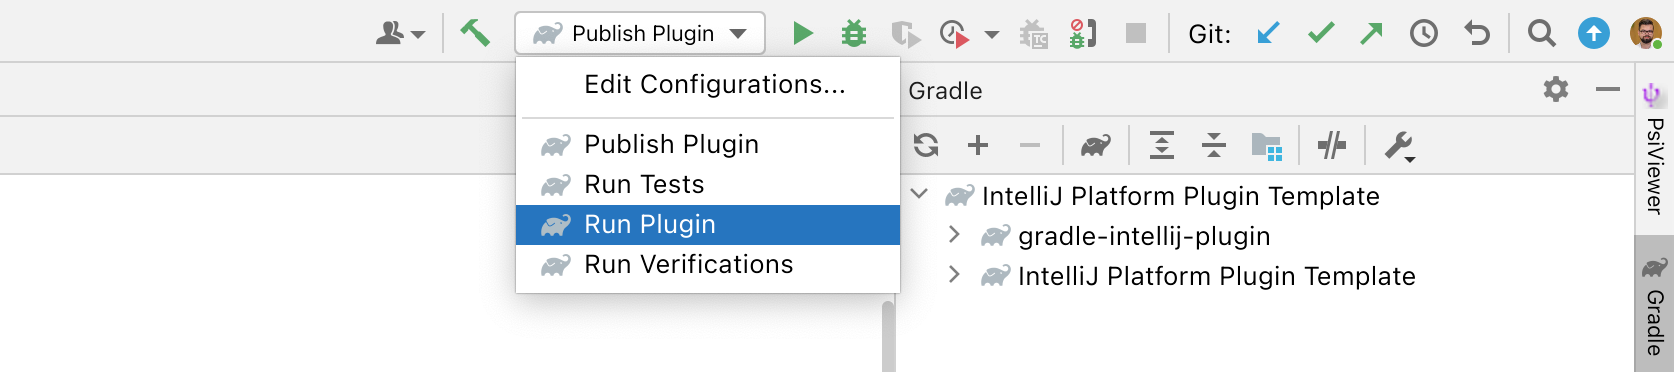
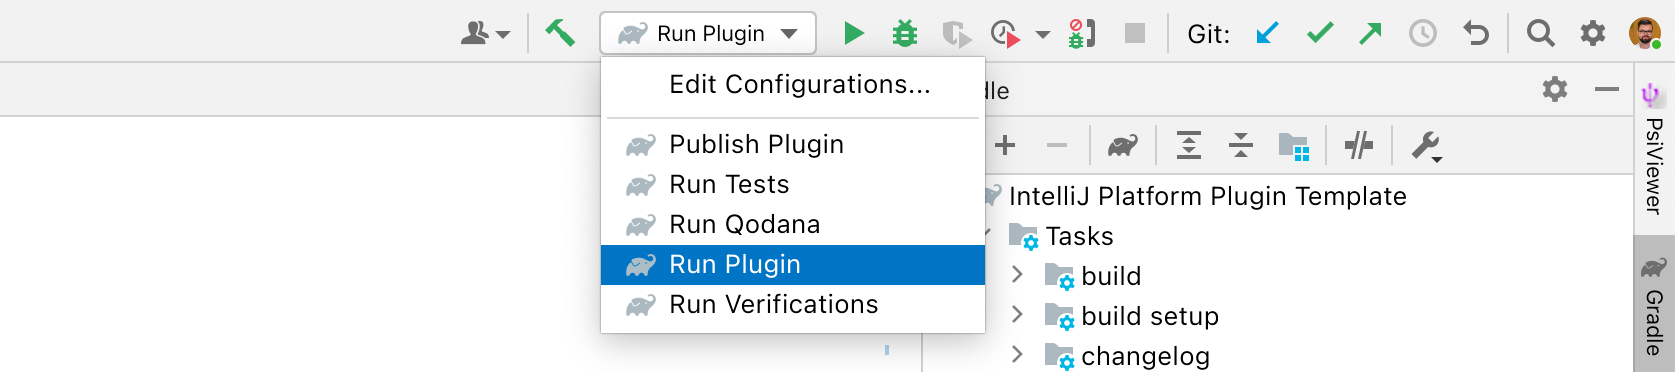
Qodana integration

diff --git a/src/main/kotlin/org/jetbrains/plugins/template/MyBundle.kt b/src/main/kotlin/org/jetbrains/plugins/template/MyBundle.kt
@@ -1,6 +1,5 @@
 package org.jetbrains.plugins.template
 
-import com.intellij.AbstractBundle
 import com.intellij.DynamicBundle
 import org.jetbrains.annotations.NonNls
 import org.jetbrains.annotations.PropertyKey
@@ -15,7 +14,7 @@ object MyBundle : DynamicBundle(BUNDLE) {
     fun message(@PropertyKey(resourceBundle = BUNDLE) key: String, vararg params: Any) =
         getMessage(key, *params)
 
-    @Suppress("SpreadOperator")
+    @Suppress("SpreadOperator", "unused")
     @JvmStatic
     fun messagePointer(@PropertyKey(resourceBundle = BUNDLE) key: String, vararg params: Any) =
         getLazyMessage(key, *params)

diff --git a/README.md b/README.md
@@ -34,6 +34,7 @@ In this README, we will highlight the following elements of template-project cre
   - listeners – project and dynamic plugin lifecycle
   - services – project-related and application-related services
   - actions – basic action with shortcut binding
+- [Qodana integration](#qodana-integration)
 - [Predefined Run/Debug configurations](#predefined-rundebug-configurations)
 - [Continuous integration](#continuous-integration) based on GitHub Actions
   - [Dependencies management](#dependencies-management) with Dependabot
@@ -159,6 +160,7 @@ A generated IntelliJ Platform Plugin Template repository contains the following 
 ├── gradlew                 *nix Gradle Wrapper binary
 ├── gradlew.bat             Windows Gradle Wrapper binary
 ├── LICENSE                 License, MIT by default
+├── qodana.yml              Qodana configuration file
 ├── README.md               README
 └── settings.gradle.kts     Grade project settings
 ```
@@ -218,19 +220,41 @@ To start with the actual implementation, you may check our [IntelliJ Platform SD
 For those, who value example codes the most, there are also available [IntelliJ SDK Code Samples][gh:code-samples] and [IntelliJ Platform Explorer][jb:ipe] – a search tool for browsing Extension Points inside existing implementations of open-source IntelliJ Platform plugins.
 
 
+## Qodana integration
+
+To increase the project value, the IntelliJ Platform Plugin Template got integrated with [Qodana][docs:qodana], a code quality monitoring platform that allows you to check the condition of your implementation and find any possible problems that may require enhancing.
+
+Qodana brings into your CI/CD pipelines all the smart features you love in the JetBrains IDEs and generates an HTML report with the actual inspection status.
+
+Qodana inspections are accessible within the project on two levels:
+
+- using the [Qodana IntelliJ GitHub Action][docs:qodana-github-action], run automatically within the [Build](.github/workflows/build.yml) workflow,
+- with the [Gradle Qodana Plugin][gh:gradle-qodana-plugin], so you can use it on the local environment or any CI other than GitHub Actions.
+
+Qodana inspection is configured with the `qodana { ... }` section in the Gradle build file, and [`qodana.yml`][file:qodana.yml] YAML configuration file.
+
+> **NOTE:** Qodana requires Docker to be installed and available in your environment.
+
+To run inspections, you can use a predefined *Run Qodana* configuration, which will provide a full report on `http://localhost:8080`, or invoke the Gradle task directly with the `./gradlew runInspections` command.
+
+A final report is available in the `./build/reports/inspections/` directory.
+
+![Qodana][file:qodana.png]
+
+
 ## Predefined Run/Debug configurations
 
 Within the default project structure, there is a `.run` directory provided containing three predefined *Run/Debug configurations* that expose corresponding Gradle tasks:
 
 ![Run/Debug configurations][file:run-debug-configurations.png]
 
-| Configuration name | Description                                                                                                                                                            |
-| ------------------ | ---------------------------------------------------------------------------------------------------------------------------------------------------------------------- |
-| Run Plugin         | Runs [`:runIde`][gh:gradle-intellij-plugin-running-dsl] Gradle IntelliJ Plugin task. Use the *Debug* icon for plugin debugging.                                        |
-| Run Tests          | Runs [`:test`][gradle-lifecycle-tasks] Gradle task.                                                                                                                    |
-| Run Verifications  | Runs [`:runPluginVerifier`][gh:gradle-intellij-plugin-verifier-dsl] Gradle IntelliJ Plugin task to check the plugin compatibility against the specified IntelliJ IDEs. |
-| Publish Plugin     | Runs `signPlugin` and `publishPlugin` Gradle tasks. Check [Environment variables](#environment-variables) section for more details on how to configure it.             |
-
+| Configuration name | Description                                                                                                                                                                   |
+| ------------------ | ----------------------------------------------------------------------------------------------------------------------------------------------------------------------------- |
+| Run Plugin         | Runs [`:runIde`][gh:gradle-intellij-plugin-running-dsl] Gradle IntelliJ Plugin task. Use the *Debug* icon for plugin debugging.                                               |
+| Run Tests          | Runs [`:test`][gradle-lifecycle-tasks] Gradle task.                                                                                                                           |
+| Run Qodana         | Runs [`:runInspections`][gh:gradle-qodana-plugin] Gradle Qodana Plugin task. Starts Qodana inspections in a Docker container and serves generated report on `localhost:8080`. |
+| Run Verifications  | Runs [`:runPluginVerifier`][gh:gradle-intellij-plugin-verifier-dsl] Gradle IntelliJ Plugin task to check the plugin compatibility against the specified IntelliJ IDEs.        |
+| Publish Plugin     | Runs `signPlugin` and `publishPlugin` Gradle tasks. Check [Environment variables](#environment-variables) section for more details on how to configure it.                    |
 
 > **TIP:** You can find the logs from the running task in the `idea.log` tab.
 >
@@ -273,7 +297,7 @@ Keeping the project in good shape and having all the dependencies up-to-date req
 
 Dependabot is a bot provided by GitHub for checking the build configuration files and reviewing any outdated or insecure dependencies of yours – in case if any update is available, it creates a new pull request providing [the proper change][gh:dependabot-pr].
 
-> **Note:** Dependabot doesn't yet support checking of the Gradle Wrapper.
+> **NOTE:** Dependabot doesn't yet support checking of the Gradle Wrapper.
 > Check the [Gradle Releases][gradle-releases] page and update your `gradle.properties` file with:
 > ```properties
 > gradleVersion = 7.2
@@ -412,6 +436,8 @@ If the message contains one of the following strings: `[skip ci]`, `[ci skip]`, 
 [docs:release-channel]: https://plugins.jetbrains.com/docs/intellij/deployment.html?from=IJPluginTemplate#specifying-a-release-channel
 [docs:using-gradle]: https://plugins.jetbrains.com/docs/intellij/gradle-build-system.html?from=IJPluginTemplate
 [docs:plugin-signing]: https://plugins.jetbrains.com/docs/intellij/plugin-signing.html?from=IJPluginTemplate
+[docs:qodana]: https://www.jetbrains.com/help/qodana
+[docs:qodana-github-action]: https://www.jetbrains.com/help/qodana/qodana-intellij-github-action.html
 
 [file:use-this-template.png]: .github/readme/use-this-template.png
 [file:draft-release.png]: .github/readme/draft-release.png
@@ -423,11 +449,14 @@ If the message contains one of the following strings: `[skip ci]`, `[ci skip]`, 
 [file:run-debug-env.png]: .github/readme/run-debug-env.png
 [file:template_cleanup.yml]: ./.github/workflows/template-cleanup.yml
 [file:intellij-platform-plugin-template.png]: ./.github/readme/intellij-platform-plugin-template.png
+[file:qodana.yml]: ./qodana.yml
+[file:qodana.png]: .github/readme/qodana.png
 
 [gh:actions]: https://help.github.com/en/actions
 [gh:dependabot]: https://docs.github.com/en/free-pro-team@latest/github/administering-a-repository/keeping-your-dependencies-updated-automatically
 [gh:code-samples]: https://github.com/JetBrains/intellij-sdk-code-samples
 [gh:gradle-changelog-plugin]: https://github.com/JetBrains/gradle-changelog-plugin
+[gh:gradle-qodana-plugin]: https://github.com/JetBrains/gradle-qodana-plugin
 [gh:gradle-intellij-plugin]: https://github.com/JetBrains/gradle-intellij-plugin
 [gh:gradle-intellij-plugin-running-dsl]: https://github.com/JetBrains/gradle-intellij-plugin#running-dsl
 [gh:gradle-intellij-plugin-verifier-dsl]: https://github.com/JetBrains/gradle-intellij-plugin#plugin-verifier-dsl
